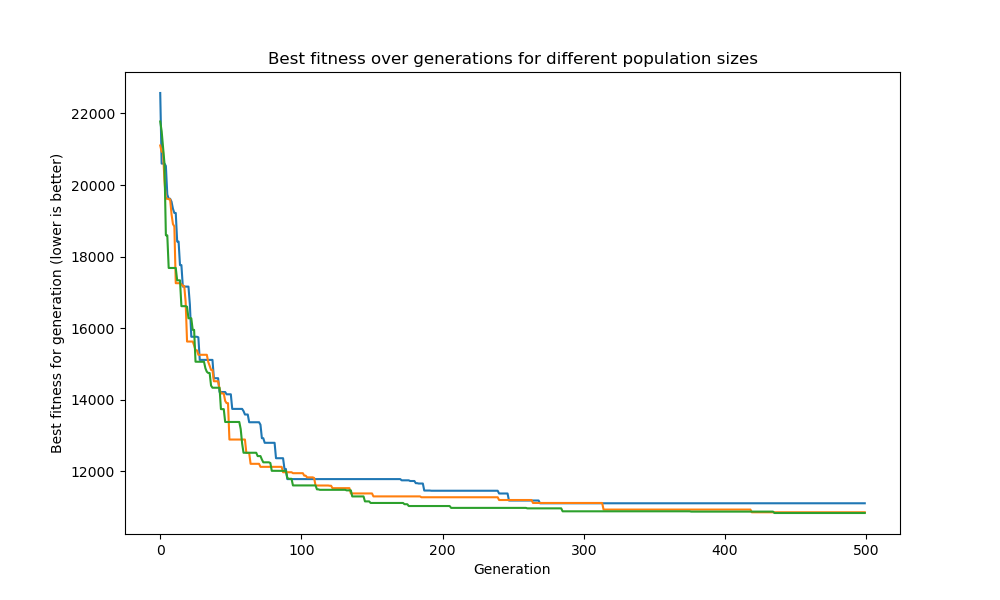
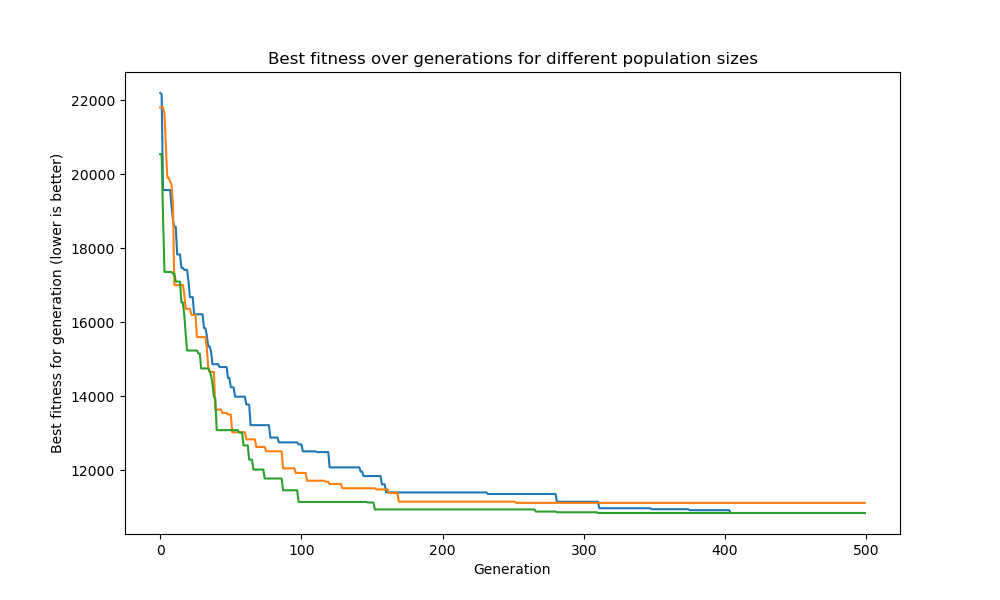
Finished

diff --git a/IN3050/oblig1/main.py b/IN3050/oblig1/main.py
@@ -67,16 +67,8 @@ def run_and_plot(
 
 @dataclass
 class Report:
-    fitnesses: list[float]
-    runtimes: list[float] | None
-
-    def __init__(
-        self,
-        fitnesses: list[float],
-        runtimes: list[float] | None = None,
-    ) -> None:
-        self.fitnesses = fitnesses
-        self.runtimes = runtimes
+    fitnesses: list[float] # in kilometers
+    runtimes: list[float] # in seconds
     
     @property
     def best(self) -> float:
@@ -108,8 +100,7 @@ class Report:
         print("Worst:", self.worst)
         print("Mean:", self.mean)
         print("Standard deviation:", self.standard_deviation)
-        if self.runtimes:
-            print("Average runtime:", self.avg_runtime, "seconds")
+        print("Average runtime:", self.avg_runtime, "seconds")
 
 
 def test_exhaustive_search() -> None:
@@ -178,12 +169,11 @@ def test_genetic_algorithm() -> None:
     # by checking the plot generated under assets/genetic_algorithm_10_cities.png)
 
     # For the genetic algorithm the runtimes depend on the parameters we give it.
-    # For my default parameters of population_size=100 and num_generations=500
-    # these are the runtimes:
+    # For the different population sizes listed below these are the runtimes:
     #
-    # SIX_CITIES: ~0.5s
-    # TEN_CITIES: ~0.8s
-    # ALL_CITIES: ~1.3s
+    # ALL_CITIES, population_size=50:  ~0.4s
+    # ALL_CITIES, population_size=100: ~0.8s
+    # ALL_CITIES, population_size=200: ~1.5s
     #
     # This is a significant improvement over exhaustive search, even on smaller
     # tours, where exhaustive search takes ~10 seconds for TEN_CITIES, and would
@@ -207,10 +197,7 @@ def test_genetic_algorithm() -> None:
 
     # For a population size of 100 it seems it takes ~500 generations before it
     # stops regularly improving each generation. It is also not guaranteed to
-    # always find the best solution. For bigger populations we could also 
-    # decrease the number of generations and see similar results which makes
-    # sense, however that would complicate the benchmarking below so I've left
-    # the number of generations constant at 500.
+    # find the best solution.
 
     # My genetic algorithm also initially kept track of elites, but i realized
     # that is not necessary for my solution as each generation always keeps
